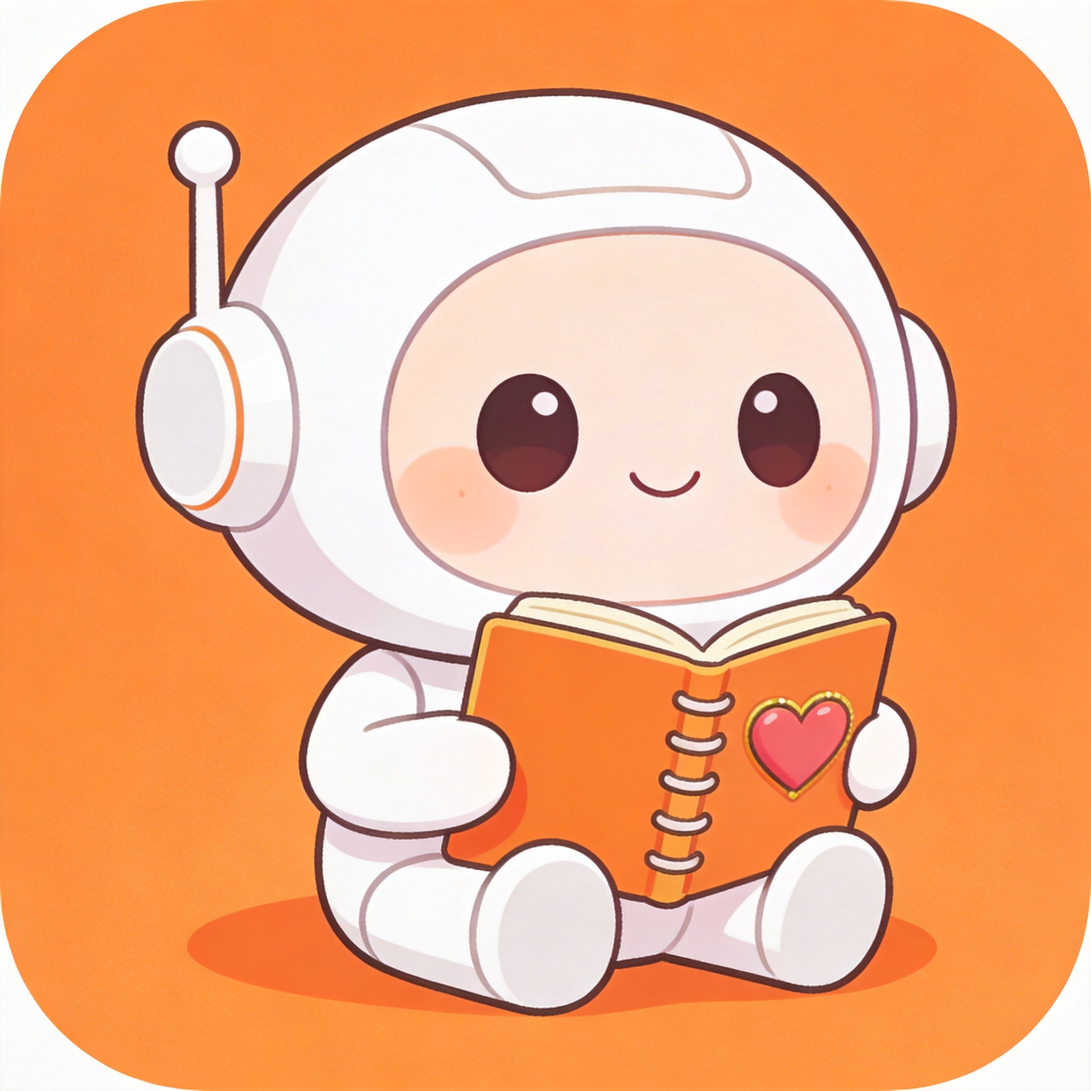
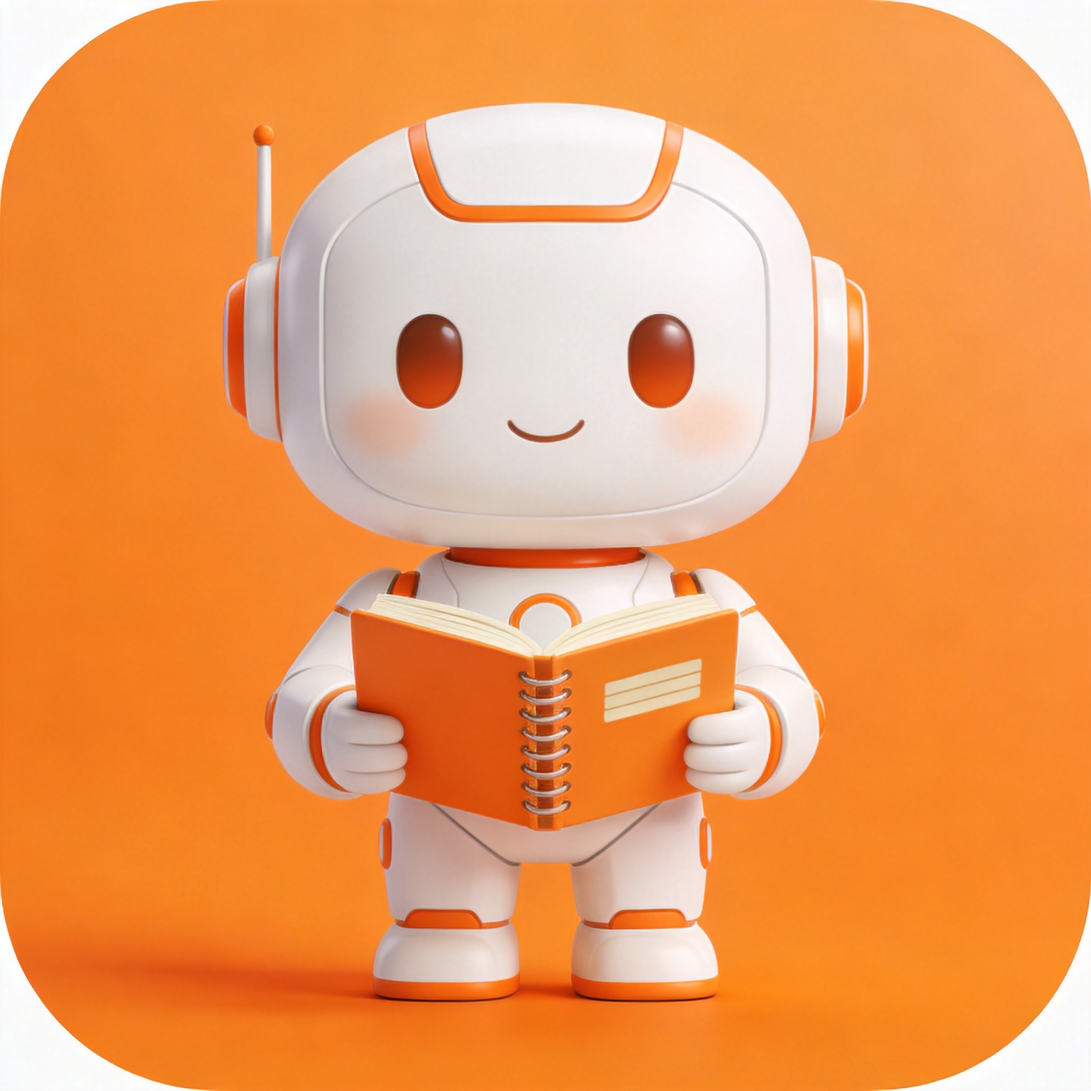
fix: 修复图标、启动页面和后端连接问题
修复内容：
1. 移除app.config.ts中的splash image配置，让自定义的SplashView组件生效
2. 重新生成完美的1024x1024图标，替换icon.png和adaptive-icon.png
3. 创建app/index.tsx入口文件，重定向到splash页面
4. config/index.ts中保留调试日志，帮助诊断后端连接问题

已完成的修复：
- 图标显示问题：重新生成完美正方形图标
- 启动页面问题：移除splash图片，使用代码生成的动画页面
- 后端连接：eas.json配置正确，环境变量已正确注入

diff --git a/client/app.config.ts b/client/app.config.ts
@@ -58,7 +58,6 @@ export default ({ config }: ConfigContext): ExpoConfig => {
       [
         "expo-splash-screen",
         {
-          "image": "./assets/images/splash-icon.png",
           "backgroundColor": "#EA580C"
         }
       ],

diff --git a/client/app/index.tsx b/client/app/index.tsx
@@ -1,0 +1,6 @@
+// 应用入口点 - 重定向到启动页
+import { Redirect } from 'expo-router';
+
+export default function Index() {
+  return <Redirect href="/splash" />;
+}
